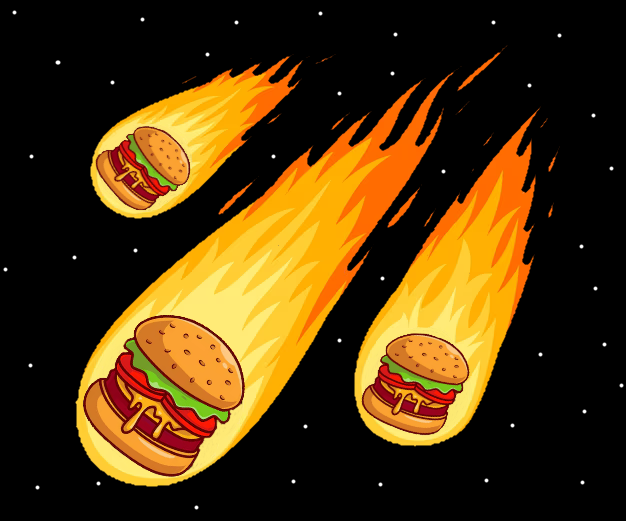
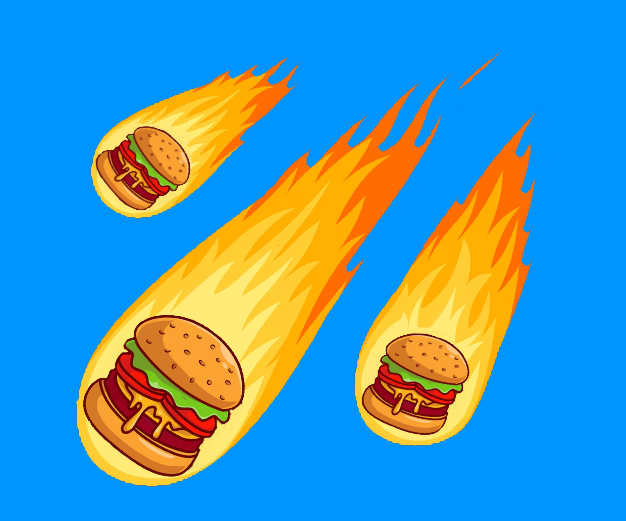
Finished with 90% of Index and Contact html files (100% according to the requirements) + added a script.js for my jquerry code (for now I have dark mode and pop-up window from form capabilities) + changed some of pictures I use for the site.

diff --git a/Contact.html b/Contact.html
@@ -3,36 +3,18 @@
     <meta charset="UTF-8">
     <meta name="viewport" content="width=device-width, initial-scale=1.0">
     <link href="https://stackpath.bootstrapcdn.com/bootstrap/4.5.2/css/bootstrap.min.css" rel="stylesheet">
-    <title>Orbital Burgers Contact Info</title>
-	
-    <style>
-        body {
-            background-image: url('Meateor Burgers.PNG'); /* Background image */
-            background-size: contain;
-            background-position: center;
-			background-repeat: repeat;
-            height: 100vh; /* Full viewport height */
-			background-color: black;
-            margin: 0;
-        }
-        .container {
-            background-color: rgba(255, 255, 255, 0.8); /* Semi-transparent white background */
-            padding: 20px;
-            border-radius: 10px;
-            max-width: 600px; /* Limit the width of the content area */
-            margin: 20px auto; /* Center the content area */
-            position: relative;
-        }
-    </style>
-
+    <link rel="stylesheet" href="styles.css"> <!-- Link to the CSS file containing some of the Bootstrap themes -->
+    <script src="https://code.jquery.com/jquery-3.5.1.min.js"></script>
+    <script src="script.js"></script> <!-- Link to the JS file containing the JQuery code-->
+    <title>Orbital Burgers Contact Page</title>
 </head>
 <body>
 <!--navbar starts here-->
-	<nav class="navbar navbar-expand-lg navbar-dark bg-dark sticky-top">
+    <nav class="navbar navbar-expand-lg navbar-light bg-light sticky-top">
         <a class="navbar-brand" href="#">
-		<img src="Proton Burger.png" alt="Company Logo" style="height: 40px; vertical-align: middle;">
-		<span class="ml-2">Orbital Burgers</span>
-		</a>
+            <img src="flaming Burger.png" alt="Company Logo" style="height: 40px; vertical-align: middle;">
+            <span class="ml-2">Orbital Burgers</span>
+        </a>
         <button class="navbar-toggler" type="button" data-toggle="collapse" data-target="#navbarNav" aria-controls="navbarNav" aria-expanded="false" aria-label="Toggle navigation">
             <span class="navbar-toggler-icon"></span>
         </button>
@@ -50,24 +32,114 @@
                 <li class="nav-item">
                     <a class="nav-link" href="About.html">About</a>
                 </li>
-				<li class="nav-item active">
+                <li class="nav-item active">
                     <a class="nav-link" href="Contact.html">Contact</a>
                 </li>
             </ul>
-        </div>
+            <button id="toggleButton" class="btn btn-secondary ml-3">
+				<svg xmlns="http://www.w3.org/2000/svg" width="16" height="16" fill="currentColor" class="bi bi-moon-fill" viewBox="0 0 16 16">
+					<path d="M6 .278a.77.77 0 0 1 .08.858 7.2 7.2 0 0 0-.878 3.46c0 4.021 3.278 7.277 7.318 7.277q.792-.001 1.533-.16a.79.79 0 0 1 .81.316.73.73 0 0 1-.031.893A8.35 8.35 0 0 1 8.344 16C3.734 16 0 12.286 0 7.71 0 4.266 2.114 1.312 5.124.06A.75.75 0 0 1 6 .278"/>
+				</svg>
+				Toggle Dark Mode</button>
+		</div>
     </nav>
 <!--ends here-->
-<!--90% of the webpage starts here***-->
-	<div class="container">
-        <h1 class="text-center">Welcome to Orbital Burgers</h1>
-		<h3 class="text-center">Where your favorite food arrives with force!</h3>
-        <p class="text-center"> </p>
-        <button class="btn btn-primary">Click Me</button>
+
+<!--Here starts the form for the Contact page-->
+	<div class="container mt-4">
+        <h2 class="text-center">Contact Us</h2>
+        <form id="contactForm">
+            <div class="form-group">
+                <label for="name">Name</label>
+                <input type="text" class="form-control" id="name" required>
+            </div>
+            <div class="form-group">
+                <label for="email">Email</label>
+                <input type="email" class="form-control" id="email" required>
+            </div>
+            <div class="form-group">
+                <label for="subject">Subject</label>
+                <input type="text" class="form-control" id="subject" required>
+            </div>
+            <div class="form-group">
+                <label for="message">Message</label>
+                <textarea class="form-control" id="message" rows="4" required></textarea>
+            </div>
+            <button type="submit" class="btn btn-primary">Submit</button>
+        </form>
     </div>
-<!--ends here***-->	
-	<script src="https://code.jquery.com/jquery-3.5.1.slim.min.js"></script>
-	<script src="https://cdn.jsdelivr.net/npm/@popperjs/core@2.9.2/dist/umd/popper.min.js"></script>
+<!--Here it ends-->
+
+<!-- Modal for displaying submitted details starts here -->
+    <div class="modal fade" id="submissionModal" tabindex="-1" role="dialog" aria-labelledby="submissionModalLabel" aria-hidden="true">
+        <div class="modal-dialog" role="document">
+            <div class="modal-content">
+                <div class="modal-header">
+                    <h5 class="modal-title" id="submissionModalLabel">Submission Details</h5>
+                    <button type="button" class="close" data-dismiss="modal" aria-label="Close">
+                        <span aria-hidden="true">&times;</span>
+                    </button>
+                </div>
+                <div class="modal-body">
+                    <p><strong>Name:</strong> <span id="modalName"></span></p>
+                    <p><strong>Email:</strong> <span id="modalEmail"></span></p>
+                    <p><strong>Subject:</strong> <span id="modalSubject"></span></p>
+                    <p><strong>Message:</strong> <span id="modalMessage"></span></p>
+                </div>
+                <div class="modal-footer">
+                    <button type="button" class="btn btn-secondary" data-dismiss="modal">Close</button>
+                </div>
+            </div>
+        </div>
+    </div>
+<!--ends here-->  
+
+<!--Google maps Integration starts here-->
+<div class="container mt-4">
+    <h2 class="text-center">Our Location</h2>
+    <div class="row">
+        <div class="col-md-12">
+            <div class="embed-responsive embed-responsive-16by9">
+                <iframe class="embed-responsive-item" 
+                        src="https://www.google.com/maps/embed?pb=!1m18!1m12!1m3!1d14208.72974078197!2d-109.36120125419293!3d-27.08754298968107!2m3!1f0!2f0!3f0!3m2!1i1024!2i768!4f13.1!3m3!1m2!1s0x9947f017a8d4ae2b%3A0xbbe5b3edc02a2db6!2zzp3Ot8-Dzq8gz4TOv8-FIM6gzqzPg8-HzrE!5e0!3m2!1sel!2sgr!4v1729982572400!5m2!1sel!2sgr" 
+                        width="600" 
+                        height="450" 
+                        style="border:0;" 
+                        allowfullscreen 
+                        loading="lazy">
+                </iframe>
+            </div>
+        </div>
+	</div>
+</div>
+<!--ends here-->
+
+<!--Social Media Links with Icons start here-->
+<div class="container d-flex justify-content-center">
+		<h3>Our Social Media:</h3>
+		<div class="mx-2"></div>
+		<a href="https://www.facebook.com" target="_blank" class="me-5">
+			<svg xmlns="http://www.w3.org/2000/svg" width="30" height="30" fill=#1877F2 class="bi bi-facebook" viewBox="0 0 16 16">
+				<path d="M16 8.049c0-4.446-3.582-8.05-8-8.05C3.58 0-.002 3.603-.002 8.05c0 4.017 2.926 7.347 6.75 7.951v-5.625h-2.03V8.05H6.75V6.275c0-2.017 1.195-3.131 3.022-3.131.876 0 1.791.157 1.791.157v1.98h-1.009c-.993 0-1.303.621-1.303 1.258v1.51h2.218l-.354 2.326H9.25V16c3.824-.604 6.75-3.934 6.75-7.951"/>
+			</svg>
+		</a>
+		<div class="mx-2"></div>
+		<a href="https://www.twitter.com" target="_blank" class="me-5">
+			<svg xmlns="http://www.w3.org/2000/svg" width="30" height="30" fill="black" class="bi bi-twitter-x" viewBox="0 0 16 16">
+				<path d="M12.6.75h2.454l-5.36 6.142L16 15.25h-4.937l-3.867-5.07-4.425 5.07H.316l5.733-6.57L0 .75h5.063l3.495 4.633L12.601.75Zm-.86 13.028h1.36L4.323 2.145H2.865z"/>
+			</svg>
+		</a>
+		<div class="mx-2"></div>
+		<a href="https://www.instagram.com" target="_blank">
+			<svg xmlns="http://www.w3.org/2000/svg" width="30" height="30" fill=#E1306C class="bi bi-instagram" viewBox="0 0 16 16">
+				<path d="M8 0C5.829 0 5.556.01 4.703.048 3.85.088 3.269.222 2.76.42a3.9 3.9 0 0 0-1.417.923A3.9 3.9 0 0 0 .42 2.76C.222 3.268.087 3.85.048 4.7.01 5.555 0 5.827 0 8.001c0 2.172.01 2.444.048 3.297.04.852.174 1.433.372 1.942.205.526.478.972.923 1.417.444.445.89.719 1.416.923.51.198 1.09.333 1.942.372C5.555 15.99 5.827 16 8 16s2.444-.01 3.298-.048c.851-.04 1.434-.174 1.943-.372a3.9 3.9 0 0 0 1.416-.923c.445-.445.718-.891.923-1.417.197-.509.332-1.09.372-1.942C15.99 10.445 16 10.173 16 8s-.01-2.445-.048-3.299c-.04-.851-.175-1.433-.372-1.941a3.9 3.9 0 0 0-.923-1.417A3.9 3.9 0 0 0 13.24.42c-.51-.198-1.092-.333-1.943-.372C10.443.01 10.172 0 7.998 0zm-.717 1.442h.718c2.136 0 2.389.007 3.232.046.78.035 1.204.166 1.486.275.373.145.64.319.92.599s.453.546.598.92c.11.281.24.705.275 1.485.039.843.047 1.096.047 3.231s-.008 2.389-.047 3.232c-.035.78-.166 1.203-.275 1.485a2.5 2.5 0 0 1-.599.919c-.28.28-.546.453-.92.598-.28.11-.704.24-1.485.276-.843.038-1.096.047-3.232.047s-2.39-.009-3.233-.047c-.78-.036-1.203-.166-1.485-.276a2.5 2.5 0 0 1-.92-.598 2.5 2.5 0 0 1-.6-.92c-.109-.281-.24-.705-.275-1.485-.038-.843-.046-1.096-.046-3.233s.008-2.388.046-3.231c.036-.78.166-1.204.276-1.486.145-.373.319-.64.599-.92s.546-.453.92-.598c.282-.11.705-.24 1.485-.276.738-.034 1.024-.044 2.515-.045zm4.988 1.328a.96.96 0 1 0 0 1.92.96.96 0 0 0 0-1.92m-4.27 1.122a4.109 4.109 0 1 0 0 8.217 4.109 4.109 0 0 0 0-8.217m0 1.441a2.667 2.667 0 1 1 0 5.334 2.667 2.667 0 0 1 0-5.334"/>
+			</svg>
+		</a>
+</div>
+<!--end here-->
+
+
+    <script src="https://cdn.jsdelivr.net/npm/@popperjs/core@2.9.2/dist/umd/popper.min.js"></script>
     <script src="https://stackpath.bootstrapcdn.com/bootstrap/4.5.2/js/bootstrap.min.js"></script>
 </body>
-
 </html>

diff --git a/Index.html b/Index.html
@@ -3,36 +3,18 @@
     <meta charset="UTF-8">
     <meta name="viewport" content="width=device-width, initial-scale=1.0">
     <link href="https://stackpath.bootstrapcdn.com/bootstrap/4.5.2/css/bootstrap.min.css" rel="stylesheet">
+    <link rel="stylesheet" href="styles.css"> <!-- Link to the CSS file containing some of the Bootstrap themes -->
+    <script src="https://code.jquery.com/jquery-3.5.1.min.js"></script>
+    <script src="script.js"></script> <!-- Link to the JS file containing the JQuery code-->
     <title>Orbital Burgers Home</title>
-	
-    <style>
-        body {
-            background-image: url('Meateor Burgers.PNG'); /* Background image */
-            background-size: contain;
-            background-position: center;
-			background-repeat: repeat;
-            height: 100vh; /* Full viewport height */
-			background-color: black;
-            margin: 0;
-        }
-        .container {
-            background-color: rgba(255, 255, 255, 0.8); /* Semi-transparent white background */
-            padding: 20px;
-            border-radius: 10px;
-            max-width: 600px; /* Limit the width of the content area */
-            margin: 20px auto; /* Center the content area */
-            position: relative;
-        }
-    </style>
-
 </head>
 <body>
 <!--navbar starts here-->
-	<nav class="navbar navbar-expand-lg navbar-dark bg-dark sticky-top">
+    <nav class="navbar navbar-expand-lg navbar-light bg-light sticky-top">
         <a class="navbar-brand" href="#">
-		<img src="Proton Burger.png" alt="Company Logo" style="height: 40px; vertical-align: middle;">
-		<span class="ml-2">Orbital Burgers</span>
-		</a>
+            <img src="flaming Burger.png" alt="Company Logo" style="height: 40px; vertical-align: middle;">
+            <span class="ml-2">Orbital Burgers</span>
+        </a>
         <button class="navbar-toggler" type="button" data-toggle="collapse" data-target="#navbarNav" aria-controls="navbarNav" aria-expanded="false" aria-label="Toggle navigation">
             <span class="navbar-toggler-icon"></span>
         </button>
@@ -50,24 +32,42 @@
                 <li class="nav-item">
                     <a class="nav-link" href="About.html">About</a>
                 </li>
-				<li class="nav-item">
+                <li class="nav-item">
                     <a class="nav-link" href="Contact.html">Contact</a>
                 </li>
             </ul>
-        </div>
+            <button id="toggleButton" class="btn btn-secondary ml-3">
+				<svg xmlns="http://www.w3.org/2000/svg" width="16" height="16" fill="currentColor" class="bi bi-moon-fill" viewBox="0 0 16 16">
+					<path d="M6 .278a.77.77 0 0 1 .08.858 7.2 7.2 0 0 0-.878 3.46c0 4.021 3.278 7.277 7.318 7.277q.792-.001 1.533-.16a.79.79 0 0 1 .81.316.73.73 0 0 1-.031.893A8.35 8.35 0 0 1 8.344 16C3.734 16 0 12.286 0 7.71 0 4.266 2.114 1.312 5.124.06A.75.75 0 0 1 6 .278"/>
+				</svg>
+				Toggle Dark Mode</button>
+		</div>
     </nav>
 <!--ends here-->
-<!--90% of the webpage starts here***-->
-	<div class="container">
+<!--90% of the webpage starts here-->
+    <div class="container">
         <h1 class="text-center">Welcome to Orbital Burgers</h1>
-		<h3 class="text-center">Where your favorite food arrives with force!</h3>
-        <p class="text-center"> </p>
-        <button class="btn btn-primary">Click Me</button>
+        <h3 class="text-center">Where your favorite food comes falling from the sky.</h3>
+        <p class="text-center">
+            At Orbital Burgers, we are dedicated to providing you with the best fast food, no matter where you are in the world. <br />
+            Explore our extensive range of burgers, sides, drinks, and desserts by viewing our dedicated 
+            <a href="Menu.html">Menu</a>.
+        </p>
+		
+		<p class="text-center">Ready to order? Or have you come to help us run this joint? In either case you have to go to<br/>
+        <a href="Tasks.html" class="btn btn-primary">Task Management</a></p>
+		<h2 class="text-center">Latest Activity</h2>
+        <ul id="activityList" class="list-group">
+        </ul>
+		
     </div>
-<!--ends here***-->	
-	<script src="https://code.jquery.com/jquery-3.5.1.slim.min.js"></script>
-	<script src="https://cdn.jsdelivr.net/npm/@popperjs/core@2.9.2/dist/umd/popper.min.js"></script>
+
+
+
+
+
+
+    <script src="https://cdn.jsdelivr.net/npm/@popperjs/core@2.9.2/dist/umd/popper.min.js"></script>
     <script src="https://stackpath.bootstrapcdn.com/bootstrap/4.5.2/js/bootstrap.min.js"></script>
 </body>
-
 </html>

diff --git a/styles.css b/styles.css
@@ -1,13 +1,44 @@
-head{text-align: center; display: grid; background-color: gray; padding: 5px; border: 1px solid black;}
+body {
+    background-image: url('Meateor Burgers.PNG'); /* Background image */
+    background-size: contain;
+    background-position: center;
+    background-repeat: repeat;
+    height: 100vh; /* Full viewport height */
+    margin: 0;
+    transition: background-color 0.3s, color 0.3s; /* Smooth transition */
+}
+.container {
+    background-color: rgba(255, 255, 255, 0.8); /* Semi-transparent white background */
+    padding: 20px;
+    border-radius: 10px;
+    max-width: 600px; /* Limit the width of the content area */
+    margin: 20px auto; /* Center the content area */
+    position: relative;
+}
+body.dark-mode {
+    background-color: #343a40; /* Dark mode background */
+    color: white; /* Dark mode text color */
+}
+body.dark-mode .container {
+    background-color: rgba(52, 58, 64, 0.8); /* Dark mode container */
+}
+.navbar-dark-mode {
+    background-color: #343a40; /* Dark background for navbar */
+    color: white; /* Text color for dark navbar */
+}
 
-#cp {color: red; text-align: center; display: grid; background-color: yellow; padding: 5px; border: 1px solid red; }
 
-h1{color: blue; text-align: center; border: 5px solid blue;}
-p{text-align: center;}
 
-a.linkstyle{
-	display: flex;
-	justify-content: center;
-	align-items: center;
-	color: green;
+/* Dark Mode Styles for the modal*/
+.dark-mode .modal-content {
+    background-color: #343a40; /* Dark background */
+    color: #ffffff; /* Light text */
+}
+
+.dark-mode .modal-header {
+    border-bottom: 1px solid #474d51; /* Darker border for header */
+}
+
+.dark-mode .modal-footer {
+    border-top: 1px solid #474d51; /* Darker border for footer */
 }

diff --git a/script.js b/script.js
@@ -1,0 +1,44 @@
+//Light-Dark mode function
+$(document).ready(function() {
+    // Function to toggle dark mode
+    function toggleDarkMode() {
+        $('body').toggleClass('dark-mode');
+        $('.navbar').toggleClass('navbar-light bg-light navbar-dark bg-dark');
+        $('.modal-content').toggleClass('modal-dark');
+    }
+
+    // Click handler for the toggle button
+    $('#toggleButton').click(function() {
+        toggleDarkMode();
+    });
+});
+
+
+
+
+
+//Contact form submission + pop-up functionality
+$(document).ready(function() {
+    $('#contactForm').on('submit', function(event) {
+        event.preventDefault(); // Prevent default form submission
+                
+        // Capture form data
+        const name = $('#name').val();
+        const email = $('#email').val();
+        const subject = $('#subject').val();
+        const message = $('#message').val();
+                
+        // Display data in the modal
+        $('#modalName').text(name);
+        $('#modalEmail').text(email);
+        $('#modalSubject').text(subject);
+        $('#modalMessage').text(message);
+                
+        // Show the modal
+        $('#submissionModal').modal('show');
+                
+		// Optionally, reset the form
+        $(this).trigger('reset');
+    });
+});	
+	
